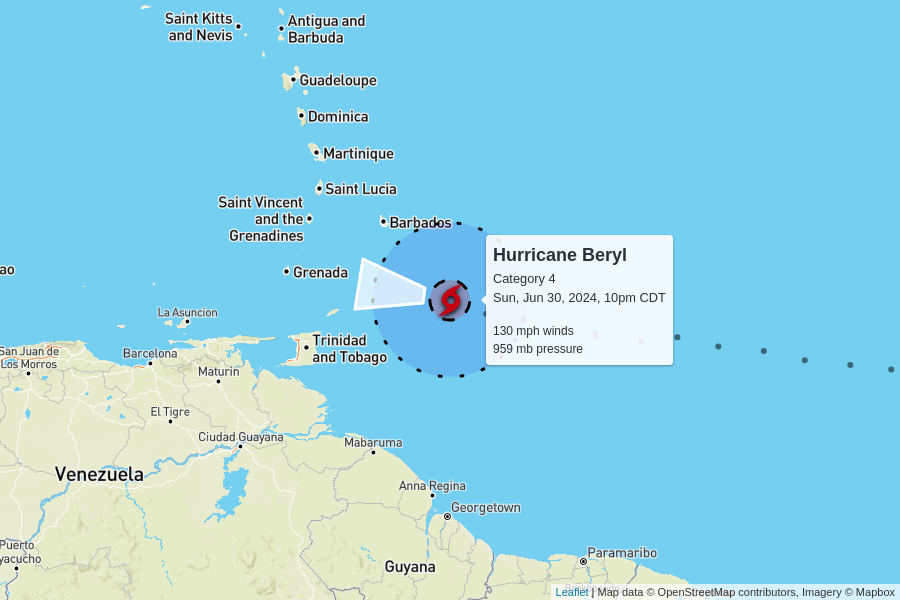
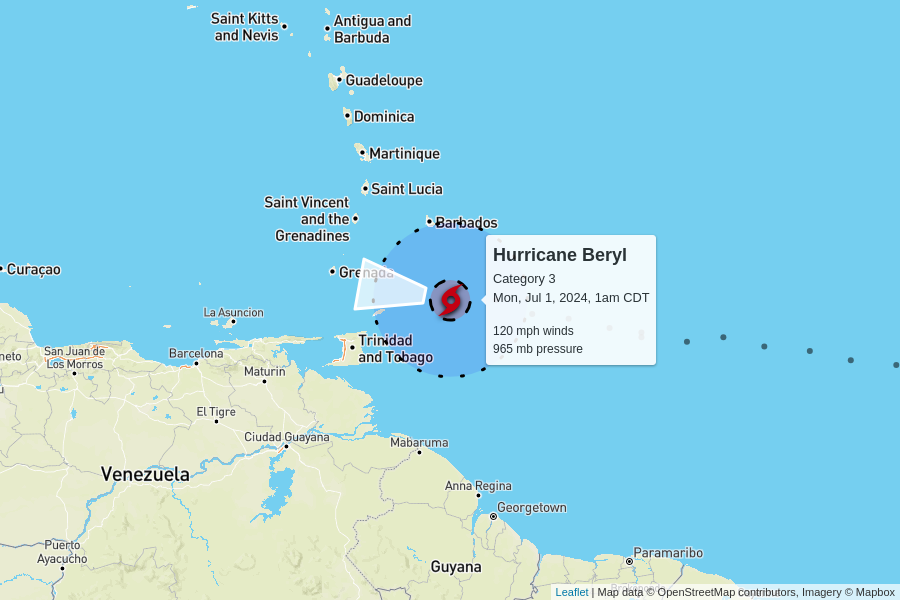
automatic update

diff --git a/docs/index.html b/docs/index.html
@@ -101,10 +101,54 @@
 
     <table>
       <tr>
+        <td colspan="6" class="storm category-3" >
+          <h2>
+            Hurricane Beryl - Category 3
+            <p class="updated">last updated <span data-time>2024-07-01T06:00:00.000Z</span></p>
+          </h2>
+        </td>
+      </tr>
+      
+      <tr>
+        <th class="spacer"></th>
+        <th>wind speed</th>
+        <th>central pressure</th>
+        <th>movement</th>
+        <th>data (CSV)</th>
+        <th>National Hurricane Center</th>
+      </tr>
+      <tr>
+        <td class="spacer"></td>
+        <td>120 mph<br>-10 mph since last update</td>
+        <td>965 mb<br>+6 mb since last update</td>
+        <td>
+          20 mph to the west
+          <br/>
+          <span style="display: inline-block; font-size: 1.5em; transform: rotate(280deg);">↑</span>
+        </td>
+        <td><a href="https://raw.githubusercontent.com/mgwalker/atlantic-hurricanes/main/data/csv/AL022024.csv">AL022024.csv</a></td>
+        <td><a href="https://www.nhc.noaa.gov/archive/2024/BERYL.shtml?">NHC advisories</a></td>
+      </tr>
+      <tr id="storm_AL022024" >
+        <td class="spacer">
+        <td colspan="5">
+          <figure>
+            <img src="AL022024.png">
+            <figcaption>
+              Map data &copy; <a href="https://www.openstreetmap.org/copyright">OpenStreetMap</a> contributors,
+              Imagery &copy; <a href="https://www.mapbox.com/">Mapbox</a> |
+              <a href="https://www.mapbox.com/map-feedback/" target="_blank">Improve this map</a>
+            </figcaption>
+          </figure>
+        </td>
+      </tr>
+      
+
+      <tr>
         <td colspan="6" class="storm category-0" >
           <h2>
             Tropical Storm Chris
-            <p class="updated">last updated <span data-time>2024-07-01T04:50:00.000Z</span></p>
+            <p class="updated">last updated <span data-time>2024-07-01T06:00:00.000Z</span></p>
           </h2>
         </td>
       </tr>
@@ -134,50 +178,6 @@
         <td colspan="5">
           <figure>
             <img src="AL032024.png">
-            <figcaption>
-              Map data &copy; <a href="https://www.openstreetmap.org/copyright">OpenStreetMap</a> contributors,
-              Imagery &copy; <a href="https://www.mapbox.com/">Mapbox</a> |
-              <a href="https://www.mapbox.com/map-feedback/" target="_blank">Improve this map</a>
-            </figcaption>
-          </figure>
-        </td>
-      </tr>
-      
-
-      <tr>
-        <td colspan="6" class="storm category-4" >
-          <h2>
-            Hurricane Beryl - Category 4
-            <p class="updated">last updated <span data-time>2024-07-01T03:00:00.000Z</span></p>
-          </h2>
-        </td>
-      </tr>
-      
-      <tr>
-        <th class="spacer"></th>
-        <th>wind speed</th>
-        <th>central pressure</th>
-        <th>movement</th>
-        <th>data (CSV)</th>
-        <th>National Hurricane Center</th>
-      </tr>
-      <tr>
-        <td class="spacer"></td>
-        <td>130 mph<br>0 mph since last update</td>
-        <td>959 mb<br>+1 mb since last update</td>
-        <td>
-          20 mph to the west
-          <br/>
-          <span style="display: inline-block; font-size: 1.5em; transform: rotate(280deg);">↑</span>
-        </td>
-        <td><a href="https://raw.githubusercontent.com/mgwalker/atlantic-hurricanes/main/data/csv/AL022024.csv">AL022024.csv</a></td>
-        <td><a href="https://www.nhc.noaa.gov/archive/2024/BERYL.shtml?">NHC advisories</a></td>
-      </tr>
-      <tr id="storm_AL022024" >
-        <td class="spacer">
-        <td colspan="5">
-          <figure>
-            <img src="AL022024.png">
             <figcaption>
               Map data &copy; <a href="https://www.openstreetmap.org/copyright">OpenStreetMap</a> contributors,
               Imagery &copy; <a href="https://www.mapbox.com/">Mapbox</a> |
